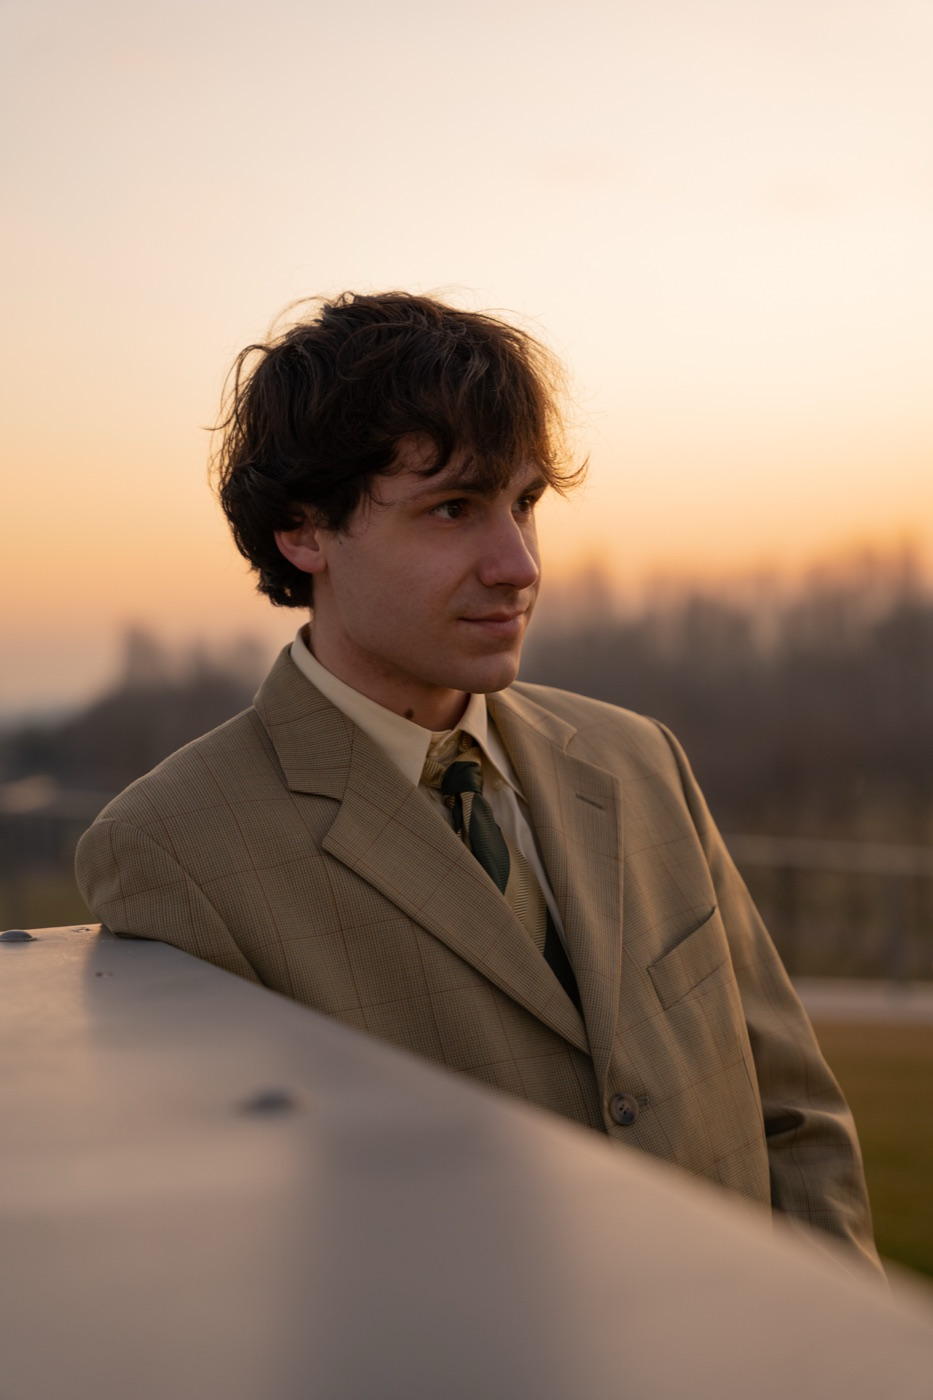
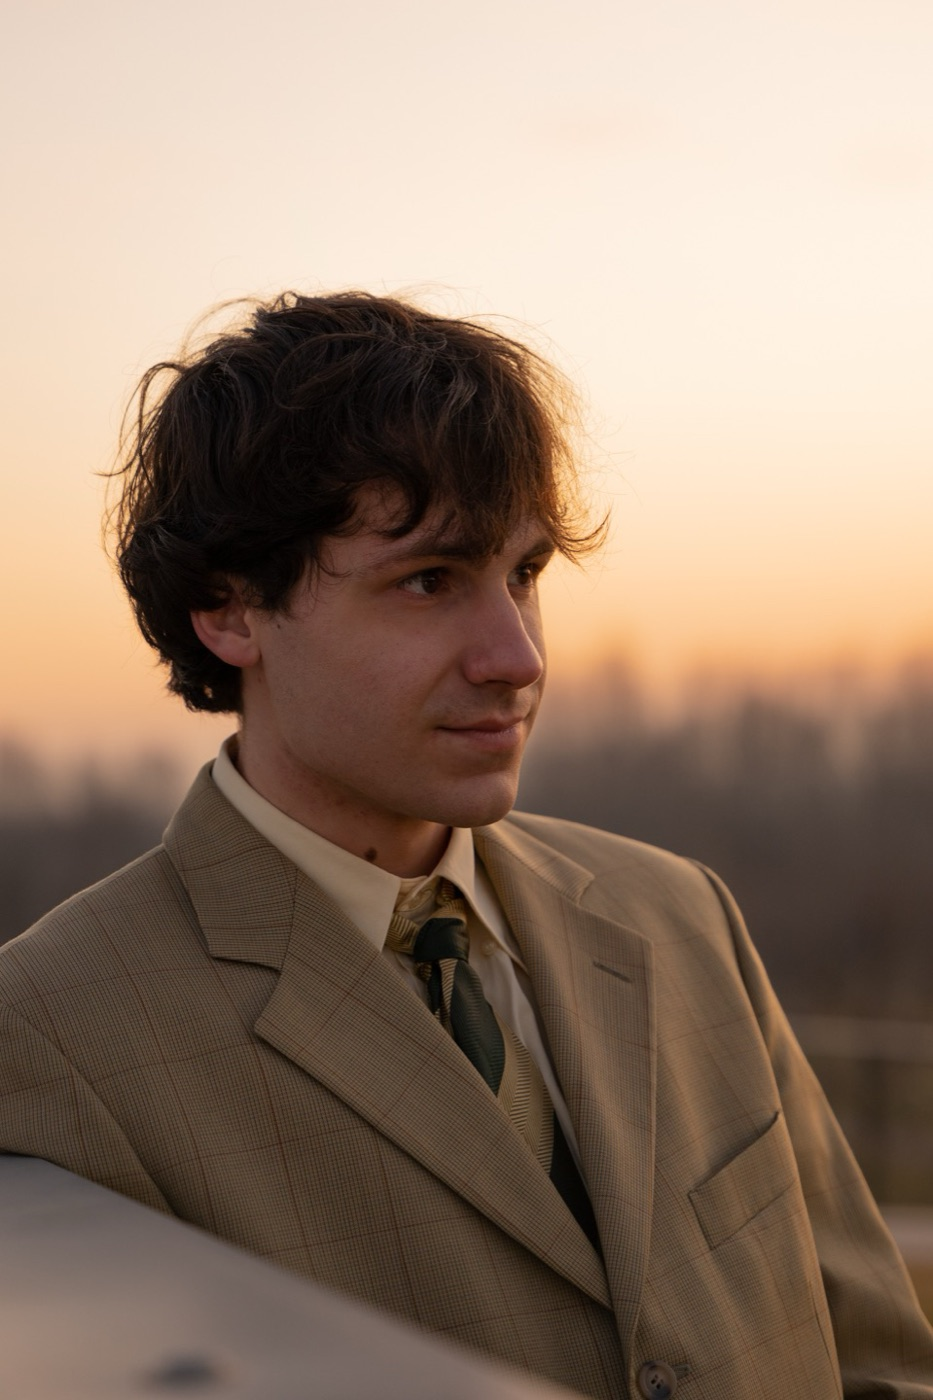
Chi sono: ritaglio ritratto centrato sul soggetto, filtro meno sbiadito, proporzioni bilanciate, cache v4

diff --git a/styles.css b/styles.css
@@ -412,7 +412,7 @@ a { text-decoration: none; color: inherit; }
   gap: 84px;
   align-items: center;
 }
-.about-photos { position: relative; height: 580px; }
+.about-photos { position: relative; height: 560px; }
 .ph {
   position: absolute;
   margin: 0;
@@ -425,32 +425,32 @@ a { text-decoration: none; color: inherit; }
   height: 100%;
   object-fit: cover;
   display: block;
-  /* tie the photos to the contemplative indigo palette */
-  filter: grayscale(0.5) contrast(1.04) brightness(0.9);
+  /* light indigo patina: tints without washing the photo out */
+  filter: grayscale(0.14) contrast(1.12) saturate(1.1) brightness(0.97);
 }
 .ph::after {
   content: "";
   position: absolute;
   inset: 0;
-  background: linear-gradient(150deg, rgba(69,64,106,0.55), rgba(44,60,84,0.42));
+  background: linear-gradient(150deg, rgba(69,64,106,0.32), rgba(44,60,84,0.20));
   mix-blend-mode: soft-light;
   pointer-events: none;
 }
 /* back photo: portrait, the taller anchor of the composition */
 .ph-back {
   top: 0; left: 0;
-  width: 60%; height: 88%;
+  width: 62%; height: 83%;
   box-shadow: 0 28px 70px rgba(0,0,0,0.5);
 }
 .ph-back img { object-position: center center; }
 /* front photo: landscape, overlapping the bottom right */
 .ph-front {
   bottom: 0; right: 0;
-  width: 62%; height: 44%;
+  width: 64%; height: 46%;
   box-shadow: 0 18px 50px rgba(0,0,0,0.55);
   border: 2px solid var(--border-strong);
 }
-.ph-front img { object-position: center 40%; }
+.ph-front img { object-position: center 38%; }
 .about-desc {
   font-size: 1rem;
   color: var(--text-muted);

diff --git a/index.html b/index.html
@@ -16,7 +16,7 @@
   <link rel="preload" as="image" href="images/me/MON01287-web.jpg" />
   <link rel="preload" as="image" href="images/me/MON01340-web.jpg" />
 
-  <link rel="stylesheet" href="styles.css?v=3" />
+  <link rel="stylesheet" href="styles.css?v=4" />
 </head>
 <body>
 
@@ -545,6 +545,6 @@
     </div>
   </footer>
 
-  <script src="script.js?v=3"></script>
+  <script src="script.js?v=4"></script>
 </body>
 </html>
